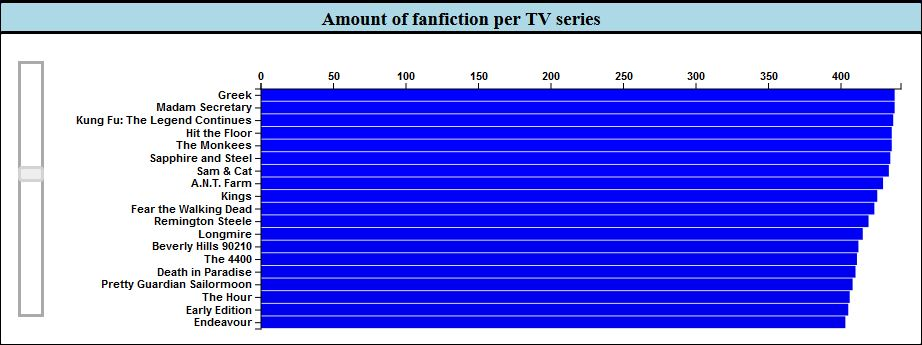
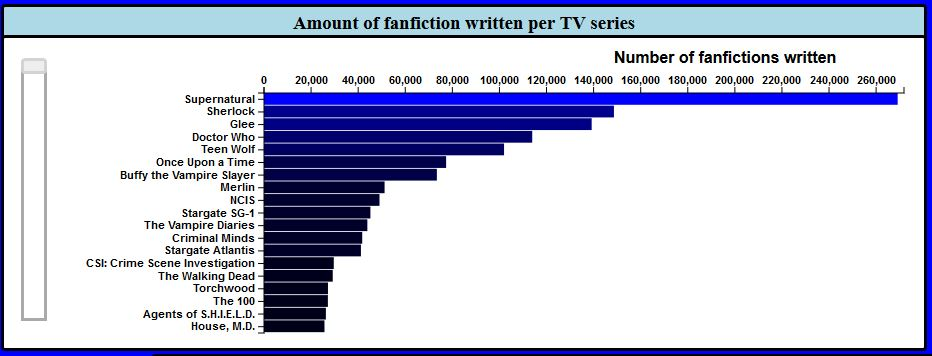
Final updates and last screenshots

diff --git a/Visualization/Functions/generate.js b/Visualization/Functions/generate.js
@@ -60,6 +60,13 @@ function generateMain() {
       .attr("class", "axis yaxis")
       .attr('transform', 'translate(' + padding["left"] + ',' + padding["top"] + ')');
   createAxis(svg_main, xScale, yScale);
+
+  // Add name x-axis
+  svg_main.append("text")
+      .attr("class", "text")
+      .attr("x", w - 300)
+      .attr("y", 20)
+      .text("Number of fanfictions written")
 }
 
 // Generate the calendar chart

diff --git a/Visualization/index.html b/Visualization/index.html
@@ -44,7 +44,7 @@
     <br>
     <div id="main_div">
       <h3 class="title space" id=maintitle>
-        Amount of fanfiction per TV series
+        Amount of fanfiction written per TV series
       </h3>
       <svg class="space" id="main"></svg>
     </div>

diff --git a/Visualization/Functions/general.js b/Visualization/Functions/general.js
@@ -8,7 +8,6 @@
 function updateAll() {
   renewText("None");
   series = "total";
-  shown_data = [0, 19];
   updateMain();
   updateCalendar();
   updatePie();
